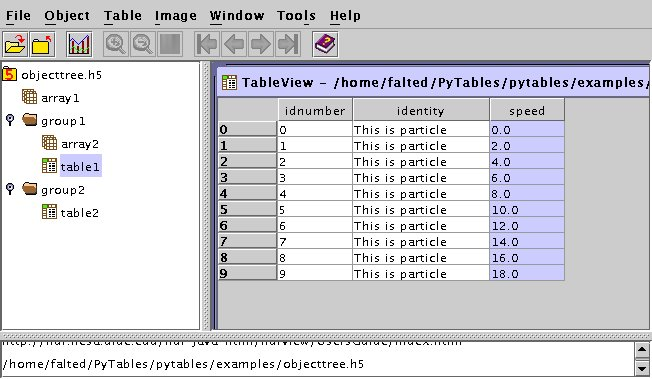
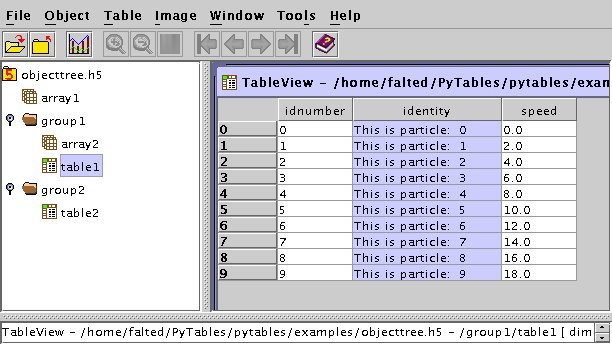
Getting ready to release 0.4
git-svn-id: http://www.pytables.org/svn/pytables/trunk@88 1b98710c-d8ec-0310-ae81-f5f2bcd8cb94

diff --git a/examples/objecttree.py b/examples/objecttree.py
@@ -1,7 +1,7 @@
 from tables import *
 
 class Particle(IsDescription):
-    identity = Col("CharType", 16, " ", pos = 0)  # character String
+    identity = Col("CharType", 22, " ", pos = 0)  # character String
     idnumber = Col("Int16", 1, pos = 1)  # short integer
     speed = Col("Float32", 1, pos = 1)  # single-precision
 
